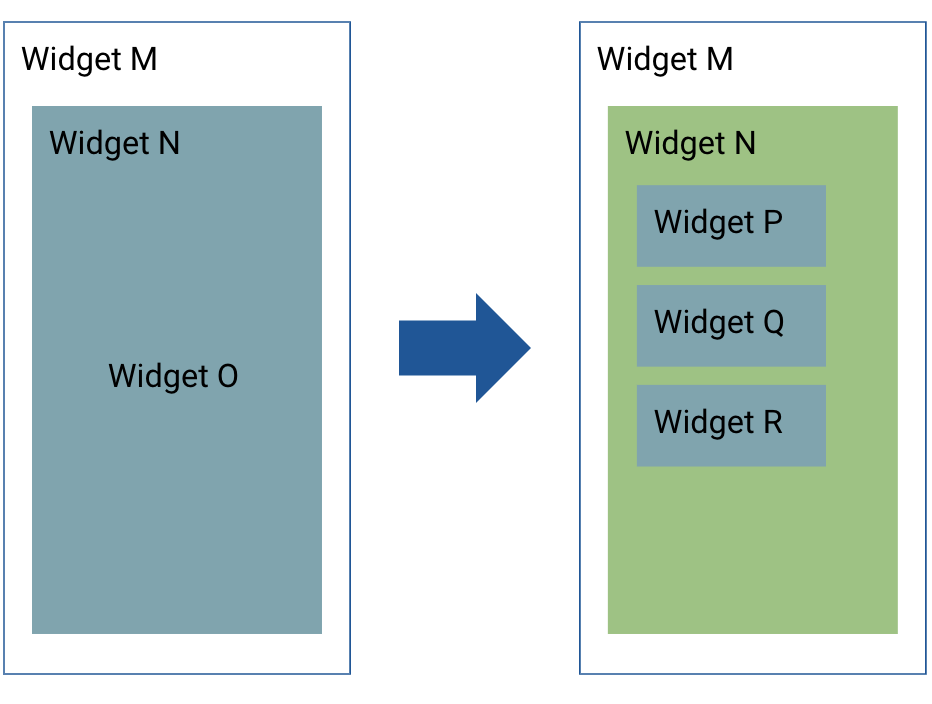
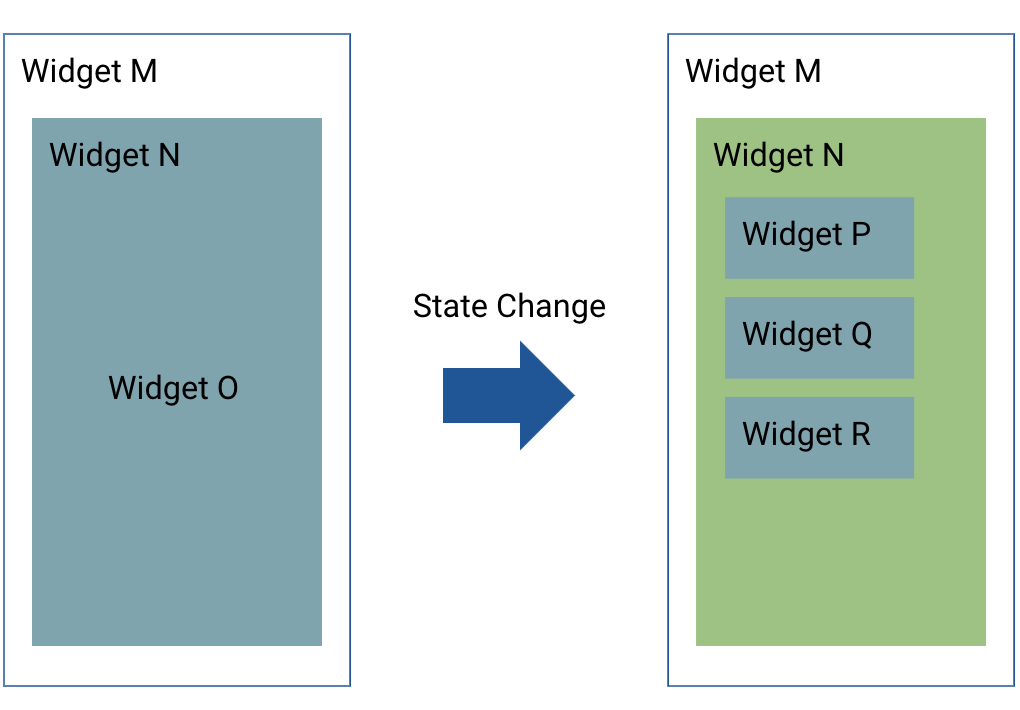
Update build slide

diff --git a/lib/slides/build_slide.dart b/lib/slides/build_slide.dart
@@ -22,6 +22,7 @@ class BuildSlide extends SlideBase {
           ],
         ),
         TopicBox(
+          padding: const EdgeInsets.only(left: 120.0, top: 100.0),
           flex: 0,
           topics: [
             Topic(
@@ -31,7 +32,7 @@ class BuildSlide extends SlideBase {
                 Subtopic(text: 'Para cada estado, use essa UI'),
               ],
             ),
-            TopicSpace(),
+            TopicSpace(space: 60.0),
             Topic(
               'O que é estado?',
               subtopics: [
@@ -40,16 +41,15 @@ class BuildSlide extends SlideBase {
                 Subtopic(text: 'Mudança de uma variável de controle'),
               ],
             ),
-            TopicSpace(),
+            TopicSpace(space: 60.0),
             Topic(
               'Seu widget pode ser rebuildado a qualquer instante',
               subtopics: [
                 Subtopic(text: 'Novos dados serão rapidamente atualizadas'),
-                Subtopic(text: 'Não significa que você deve sempre rebuildar'),
+                Subtopic(text: 'Não significa que você deve rebuildar tudo'),
+                Subtopic(text: 'Não deve existir interferência entre UIs distintas'),
               ],
             ),
-            TopicSpace(),
-            Topic('Não deve existir interferência entre UIs distintas'),
           ],
         )
       ],

diff --git a/lib/slides/widget_slide.dart b/lib/slides/widget_slide.dart
@@ -8,15 +8,7 @@ class WidgetSlide extends SlideBase {
   Widget background() => const BackgroundLines();
 
   @override
-  Widget title(BuildContext context) {
-    return Align(
-      alignment: Alignment.center,
-      child: Text(
-        'Everything is a Widget',
-        style: TextStyle(fontSize: 60.0, fontStyle: FontStyle.italic),
-      ),
-    );
-  }
+  Widget title(BuildContext context) => SlideTitle('Everything is a Widget');
 
   @override
   Widget body(BuildContext context) => Padding(
